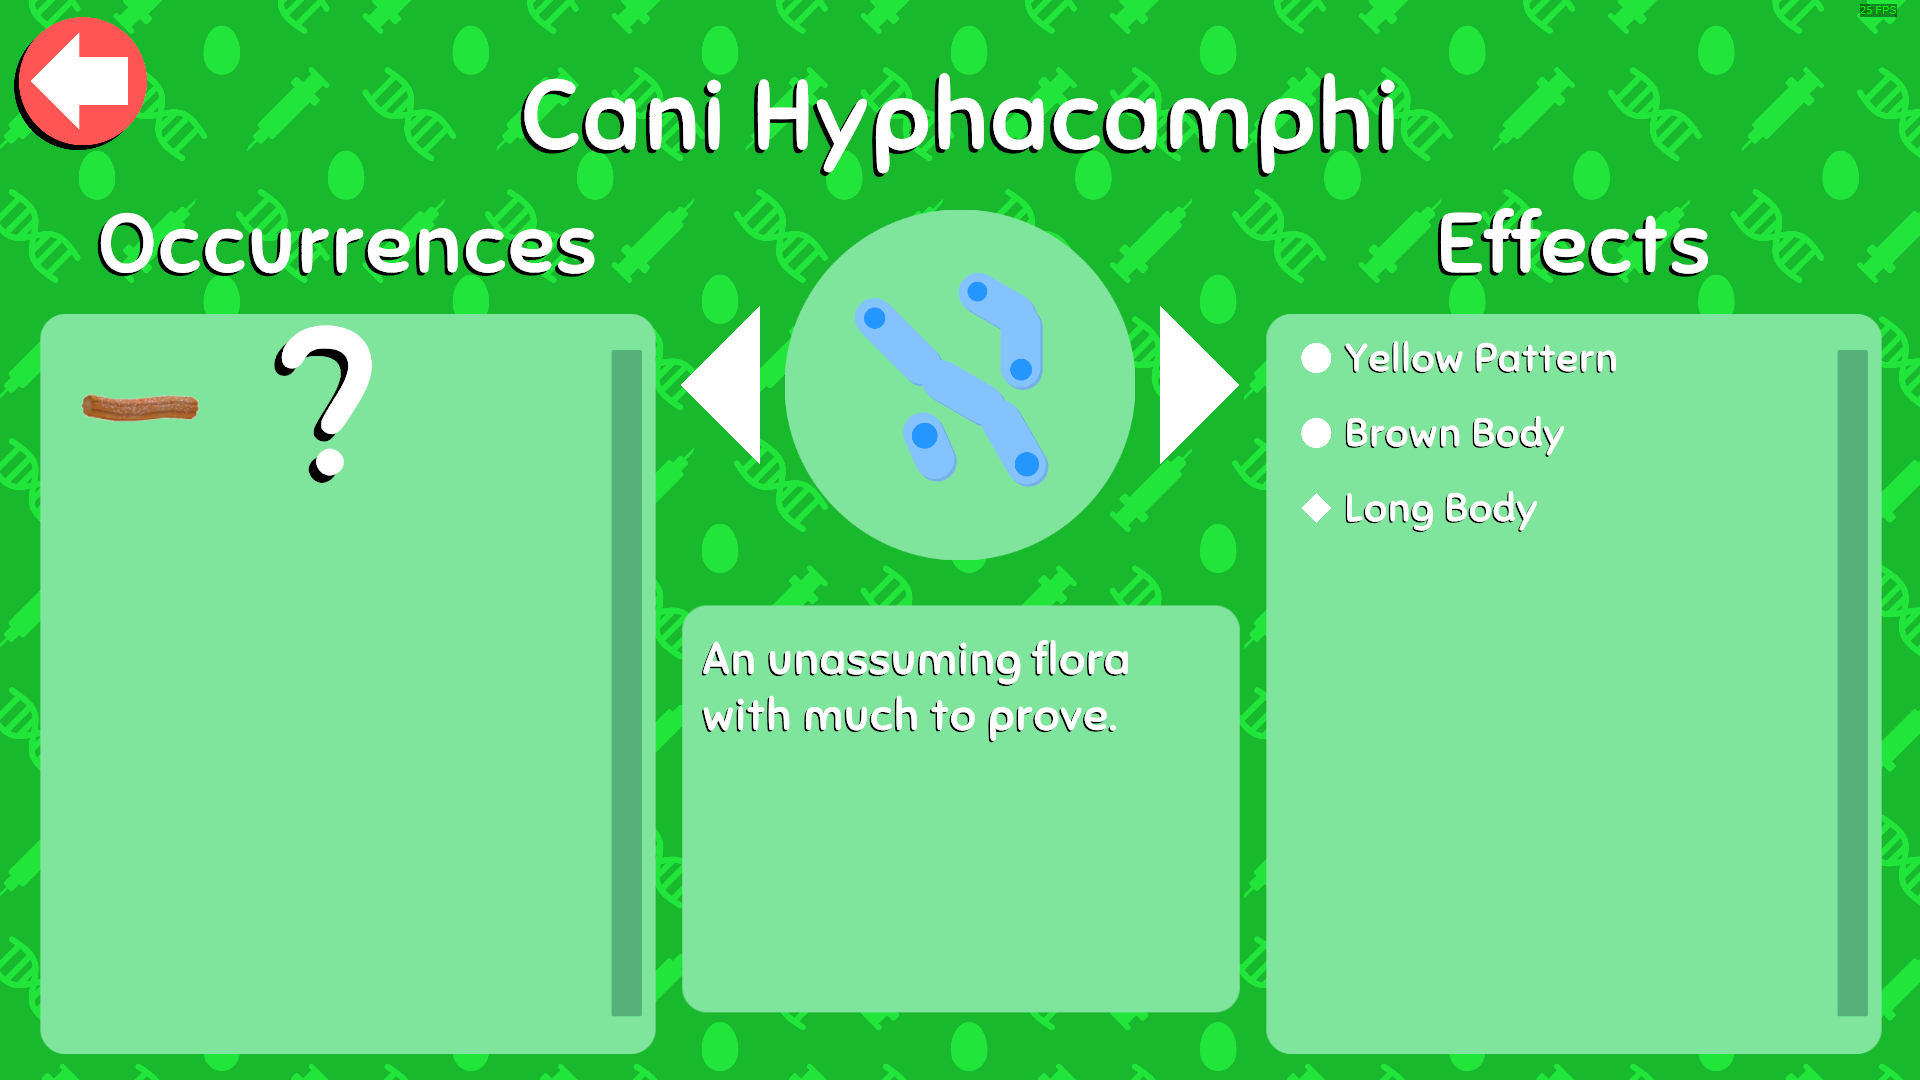
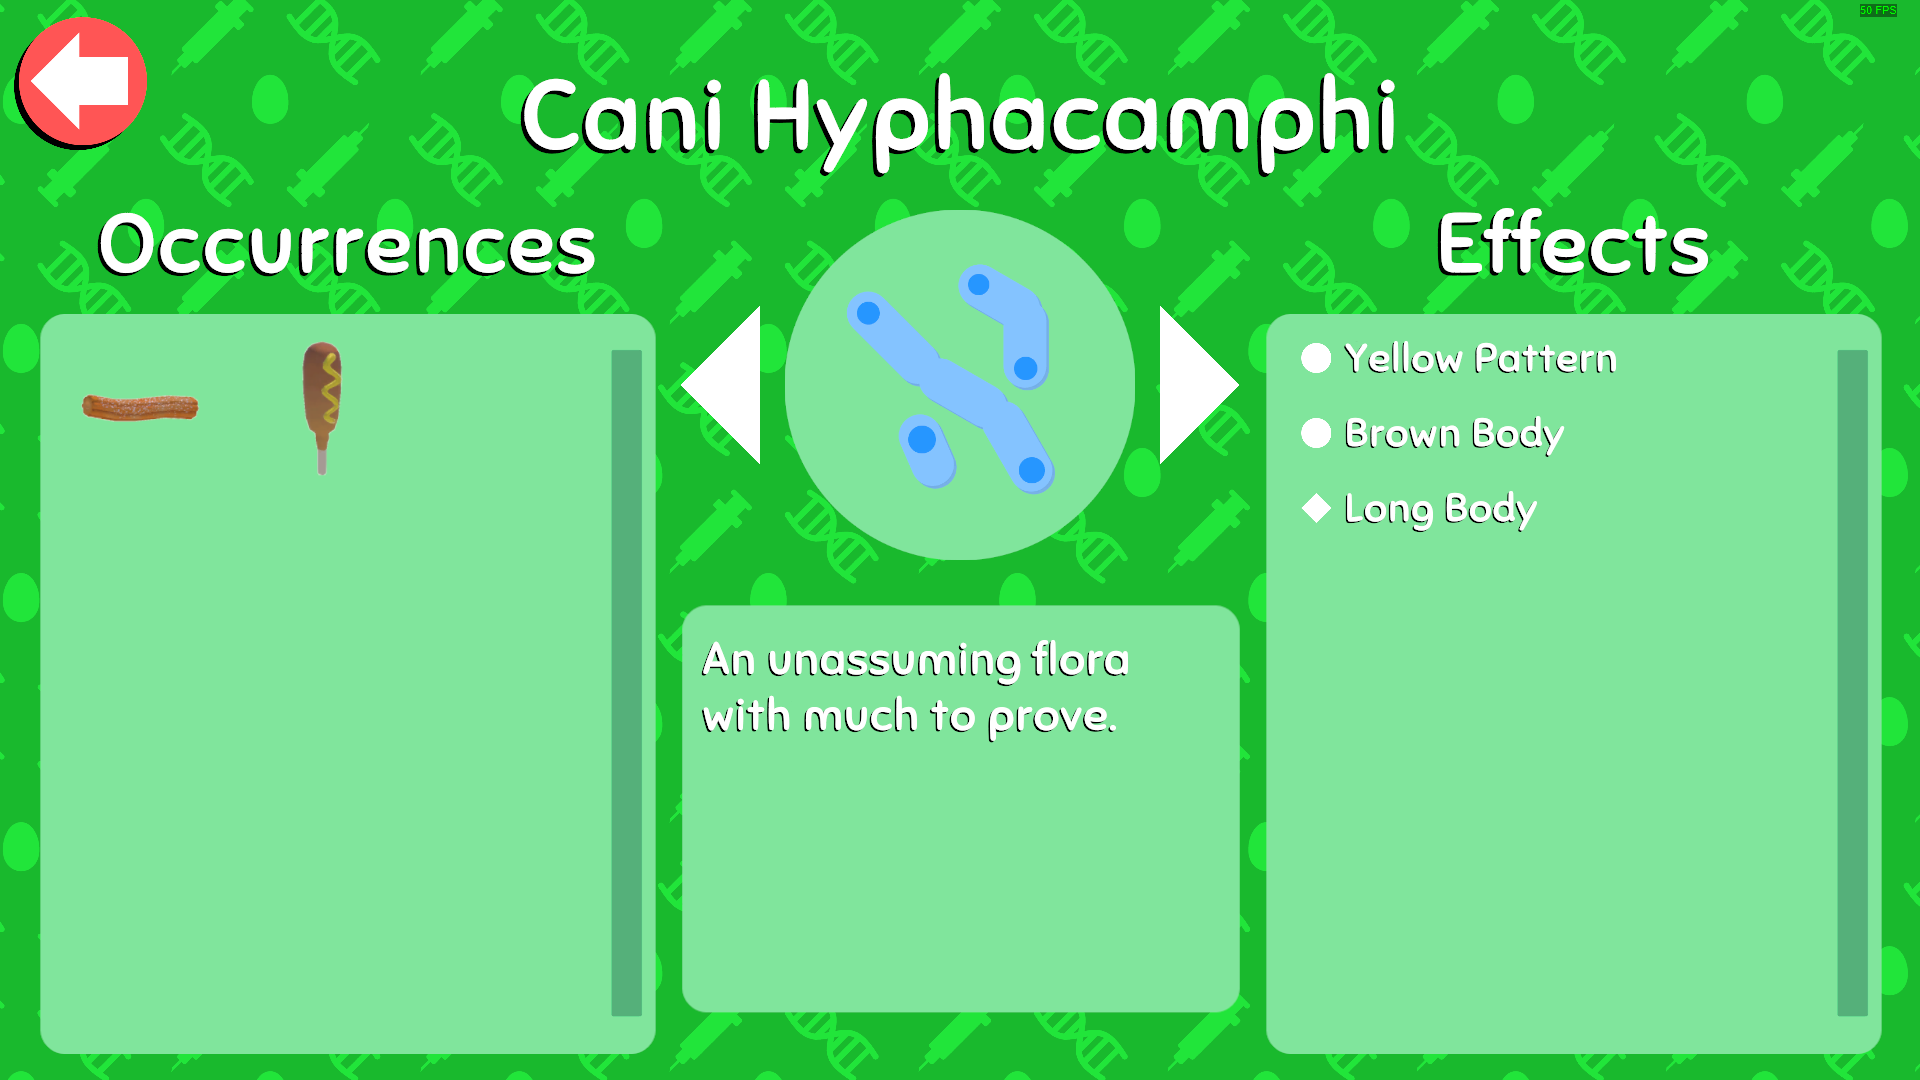
added corndog

diff --git a/src/food.ts b/src/food.ts
@@ -69,6 +69,10 @@ export const coconut: Food = {
   name: "Coconut",
   image: "coconut",
 };
+export const corndog: Food = {
+  name: "Corndog",
+  image: "corndog",
+};
 export const crackedCore: Food = {
   name: "Cracked Core",
   image: "cracked-core",
@@ -253,6 +257,7 @@ export const foods: Food[] = [
   chip,
   churro,
   coconut,
+  corndog,
   crackedCore,
   cutFruit,
   decorativeCorn,

diff --git a/src/flora.ts b/src/flora.ts
@@ -79,7 +79,7 @@ export const caniHyphacamphi: Flora = {
   name: "Cani Hyphacamphi",
   image: "flora_0_6",
   description: "An unassuming flora with much to prove.",
-  foods: [food.churro, food.unknown],
+  foods: [food.churro, food.corndog],
   effects: [effect.yellowBody, effect.brownBody, effect.longBody],
   rarities: [circle, circle, diamond],
 };

diff --git a/src/images.py b/src/images.py
@@ -96,6 +96,7 @@ def crop_grid_from_folder(source_folder, output_folder, low_variance_output_fold
         "flora-0-5-food-1-0": "dog-tail",
         "flora-0-5-food-1-1": "dog-wing",
         "flora-0-6-food-0-0": "churro",
+        "flora-0-6-food-0-1": "corndog",
         "flora-0-7-food-0-1": "lunar-pie",
         "flora-0-8-food-0-0": "garlic-bread",
         "flora-0-8-food-0-1": "pancake",
